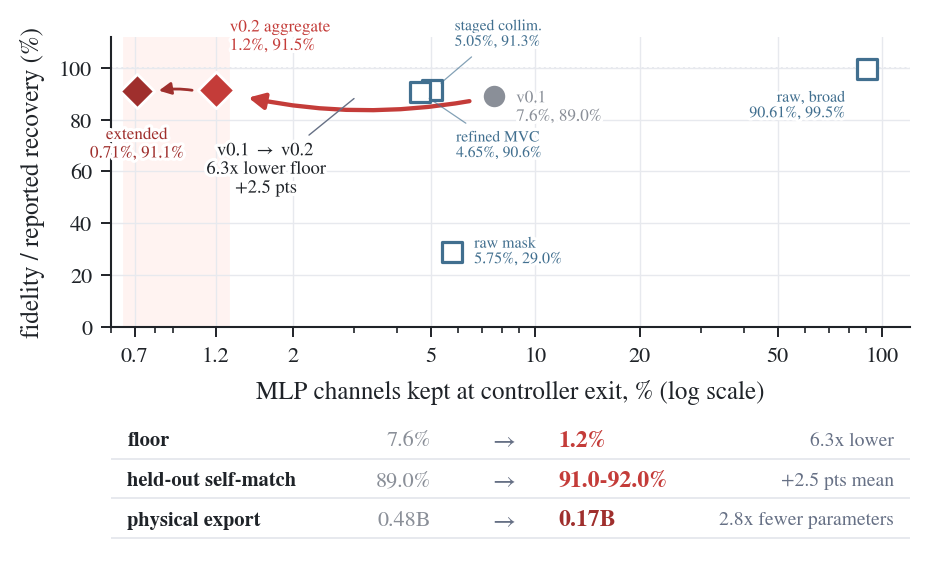
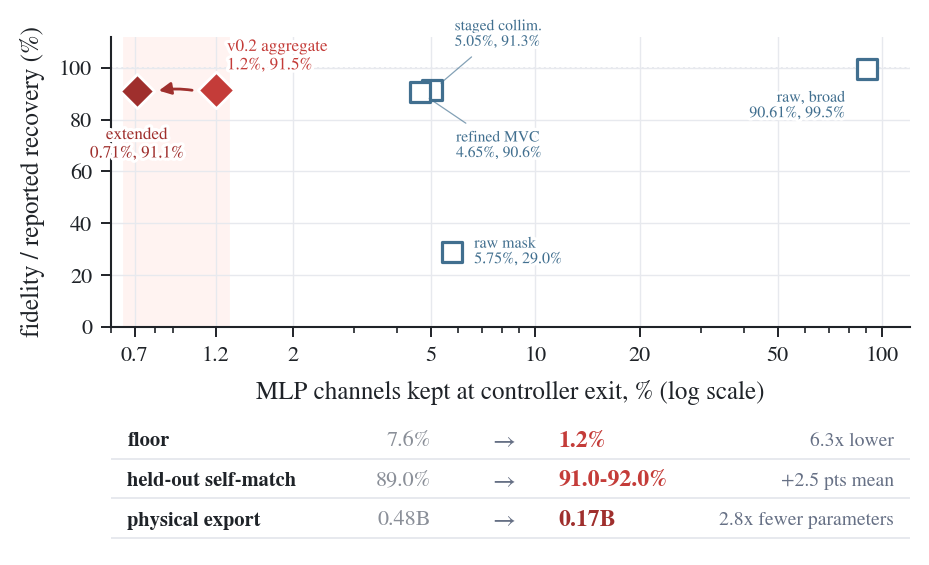
Simplify Figure 1 top plot

diff --git a/paper/make_figures.py b/paper/make_figures.py
@@ -158,14 +158,7 @@ def fig_frontier():
     v02_min = min(p[1] for p in v02_runs)
     v02_max = max(p[1] for p in v02_runs)
     deep_pt = (deep["floor"] * 100, deep["frontier"][-1][1] * 100)
-    old_pt = (7.6, 89.0)
     prism = [(5.75, 29.0), (90.61, 99.53), (5.05, 91.33), (4.65, 90.6)]
-
-    def display_offset(point, dx_pt=0, dy_pt=0):
-        x_disp, y_disp = ax.transData.transform(point)
-        scale = fig.dpi / 72.0
-        return ax.transData.inverted().transform(
-            (x_disp + dx_pt * scale, y_disp + dy_pt * scale))
 
     def log_path(p0, p1, t):
         log_x = (1 - t) * math.log10(p0[0]) + t * math.log10(p1[0])
@@ -179,17 +172,11 @@ def fig_frontier():
     ax.set_yticks([0, 20, 40, 60, 80, 100])
     ax.axvspan(0.65, 1.3, color=EXCISE_LIGHT, zorder=0)
     ax.add_patch(FancyArrowPatch(
-        old_pt, (v02_x, v02_y), arrowstyle="-|>", mutation_scale=12,
-        lw=1.55, color=RED, shrinkA=9, shrinkB=12,
-        connectionstyle="arc3,rad=-0.12", zorder=2))
-    ax.add_patch(FancyArrowPatch(
         log_path((v02_x, v02_y), deep_pt, 0.30),
         log_path((v02_x, v02_y), deep_pt, 0.72),
         arrowstyle="-|>", mutation_scale=9,
         lw=1.0, color=EXCISE_DARK, shrinkA=0, shrinkB=0,
         connectionstyle="arc3,rad=0.08", zorder=2))
-    ax.scatter([old_pt[0]], [old_pt[1]], s=76, color=CONTROL,
-               edgecolor="white", linewidth=1.0, zorder=5)
     ax.scatter([v02_x], [v02_y], s=86, marker="D", color=RED,
                edgecolor="white", linewidth=1.0, zorder=6)
     ax.scatter([deep_pt[0]], [deep_pt[1]], s=76, marker="D",
@@ -209,11 +196,9 @@ def fig_frontier():
             path_effects=label_halo, arrowprops=arrowprops)
 
     mark_label((v02_x, v02_y), f"v0.2 aggregate\n1.2%, {v02_y:.1f}%",
-               RED, 5, 13, ha="left", va="bottom", fontsize=6.15)
+               RED, 4, 6, ha="left", va="bottom", fontsize=6.15)
     mark_label(deep_pt, "extended\n0.71%, 91.1%", EXCISE_DARK, 0, -13,
                ha="center", va="top", fontsize=6.15)
-    mark_label(old_pt, "v0.1\n7.6%, 89.0%", CONTROL, 8, -4,
-               ha="left", va="center", fontsize=6.15)
 
     mark_label((5.75, 29.0), "raw mask\n5.75%, 29.0%",
                PRISM, 8, 0, ha="left", va="center", fontsize=5.75)
@@ -226,13 +211,6 @@ def fig_frontier():
                PRISM, 13, -14, ha="left", va="top", fontsize=5.6,
                leader=True)
 
-    ax.annotate("v0.1 $\\rightarrow$ v0.2\n6.3x lower floor\n+2.5 pts",
-                xy=log_path(old_pt, (v02_x, v02_y), 0.48),
-                xytext=(-34, -18), textcoords="offset points",
-                ha="center", va="top", fontsize=6.65, color=INK, zorder=8,
-                path_effects=label_halo,
-                arrowprops=dict(arrowstyle="-", color=MUTED, lw=0.5,
-                                shrinkA=1.5, shrinkB=3))
     ax.set_xlabel("MLP channels kept at controller exit, % (log scale)",
                   labelpad=5)
     ax.set_ylabel("fidelity / reported recovery (%)", labelpad=5)